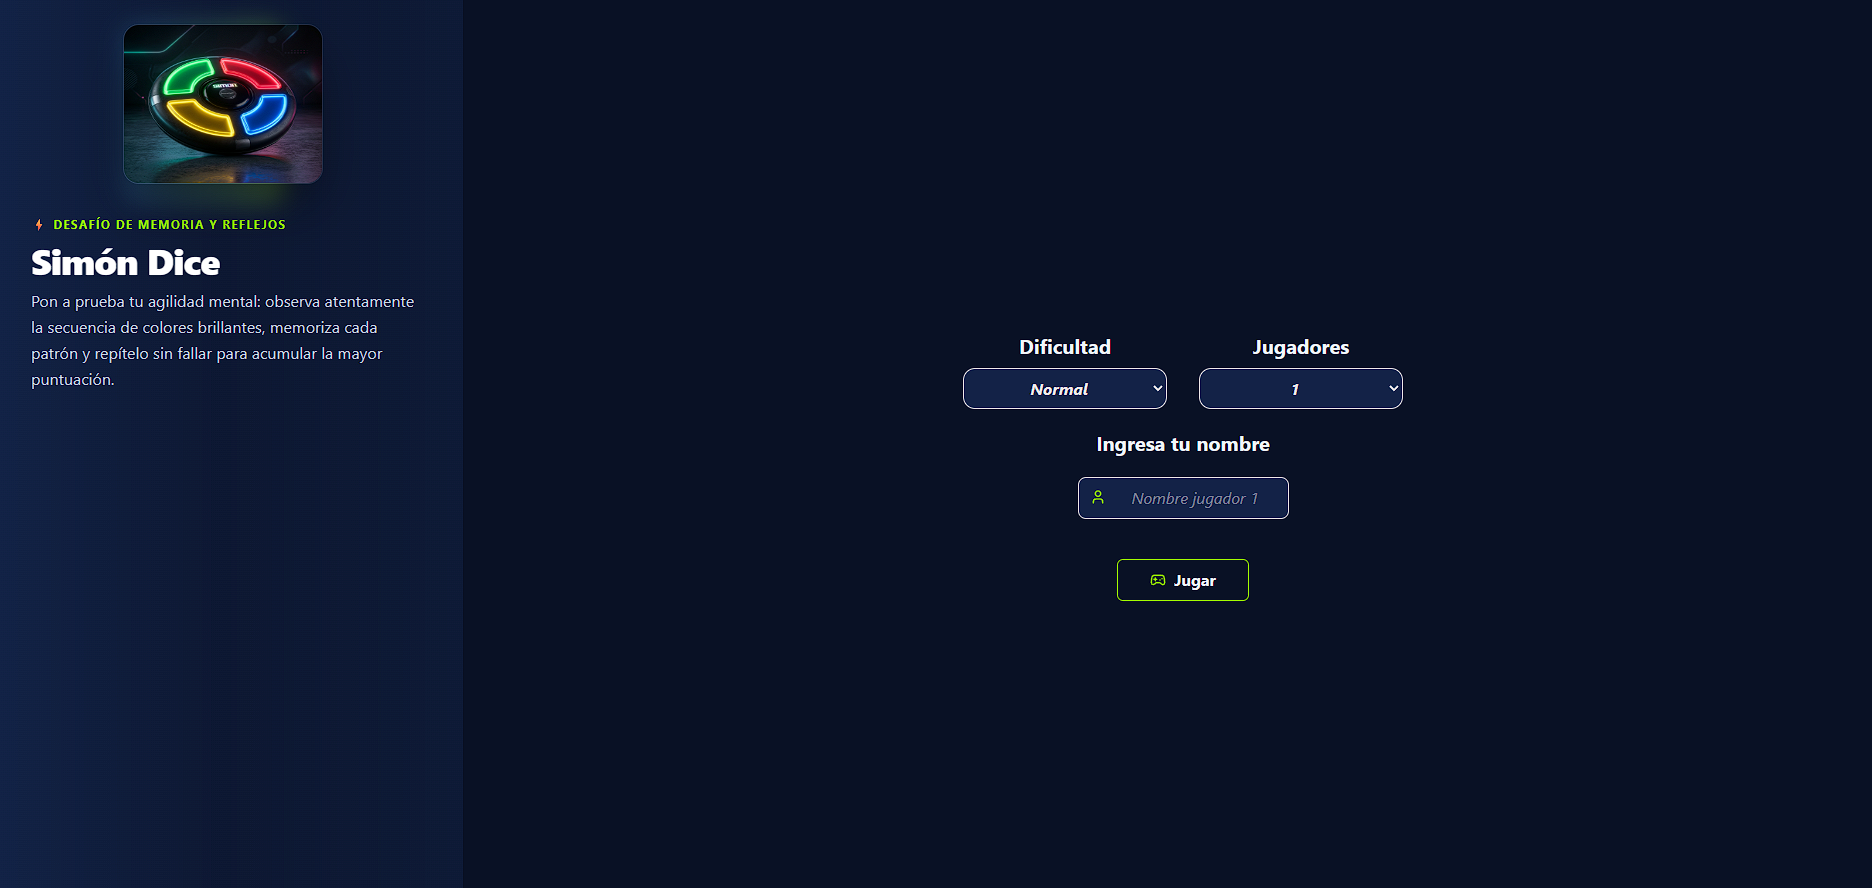
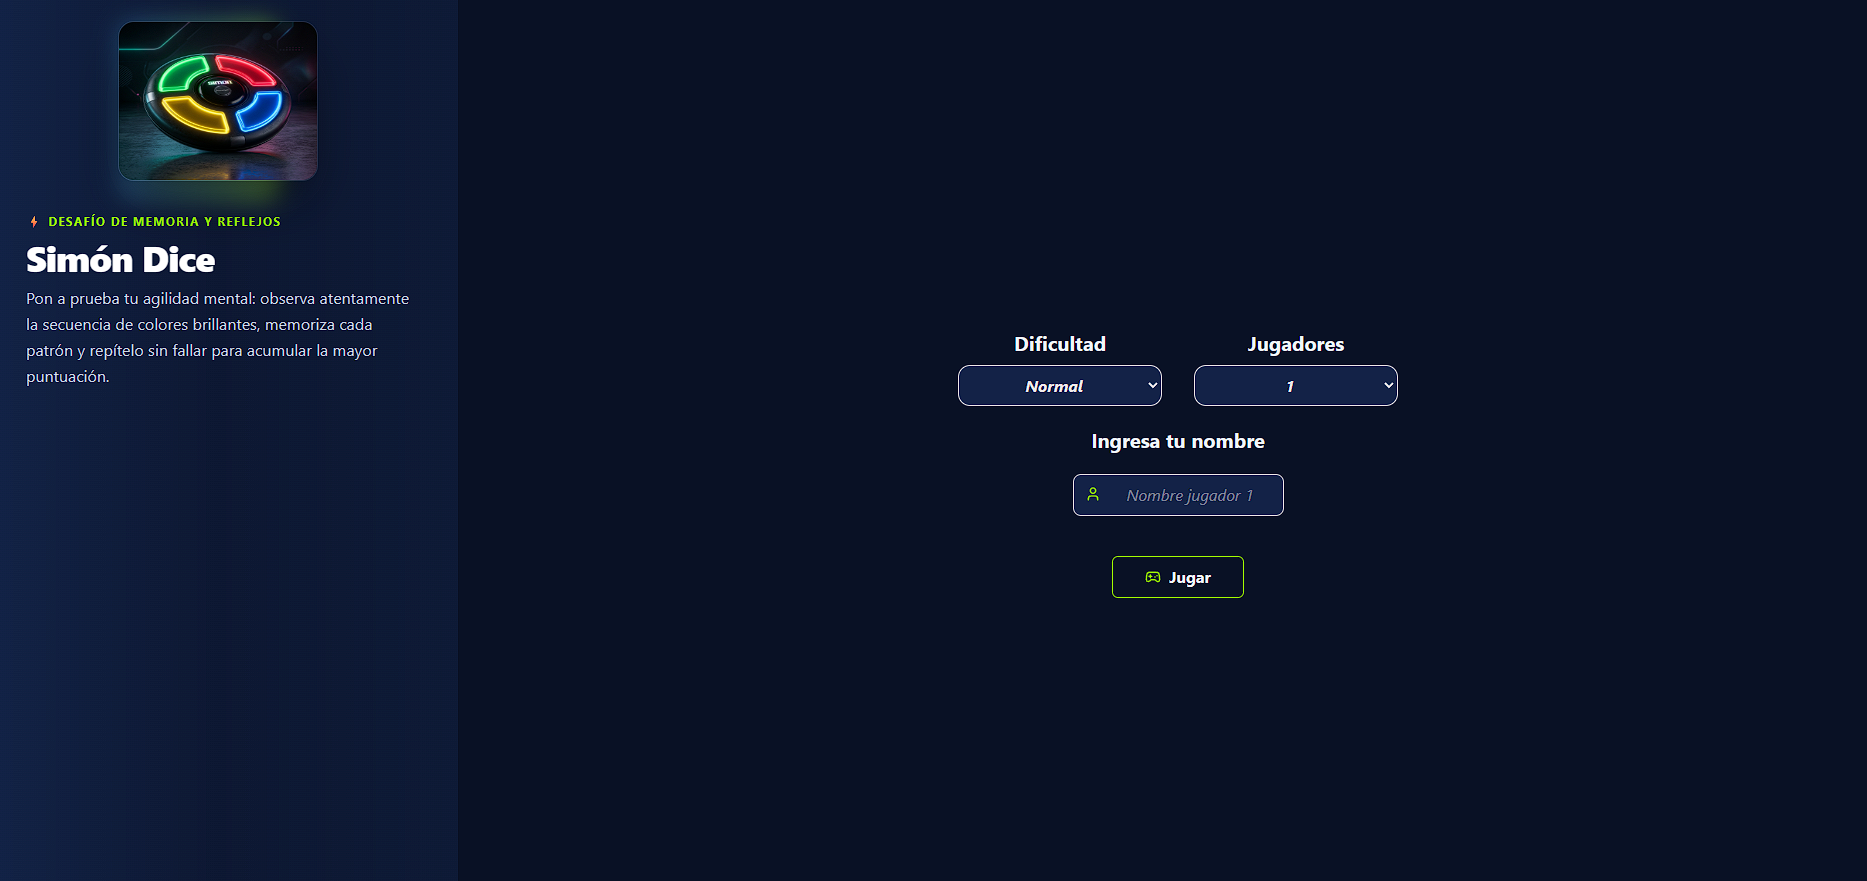
se agrega siguiente turno, puntajes, numero de jugadores y mensajes al terminar

diff --git a/src/App.tsx b/src/App.tsx
@@ -3,13 +3,10 @@ import { useGameContext } from '@/store/GameContext'
 
 import simondiceimage from './assets/simondiceimage.jpg';
 import { Trophy, User } from 'lucide-react';
-import { useMemo } from 'react';
 
 export function App() {
 
-  const { currentPlayer, isGameInit, round, playersNumber } = useGameContext();
-
-  // const playersInfo = useMemo(() => playersInfo.filter(p => p.player != 'simon').length, playersInfo);
+  const { currentPlayer, isGameInit, round, playersNumber, nextPlayer, playersInfo } = useGameContext();
 
   return (
     <>
@@ -26,7 +23,7 @@ export function App() {
               <img
                 src={simondiceimage}
                 alt="Simón Dice Juego de Memoria"
-                className="relative w-30 h-30 sm:w-45 sm:h-45 md:w-90 md:h-40 lg:w-50 rounded-2xl border border-white/10 shadow-2xl shadow-black/60"
+                className="relative w-18 h-18 sm:w-30 sm:h-30 md:w-90 md:h-40 lg:w-50 rounded-2xl border border-white/10 shadow-2xl shadow-black/60"
               />
             </figure>
             <article className="flex flex-col mt-4 gap-2 text-center md:text-left ">
@@ -41,19 +38,61 @@ export function App() {
               </p>
             </article>
           </section>
-          {/* INFO GAME */}
+
+
           {
+            //  INFO GAME 
             isGameInit && (
               <section className='w-full'>
 
-                <div className='flex w-full justify-between'>
-                  <p className='text-xl font-bold italic underline underline-offset-5 mb-2 lg:mb-4'>Ronda: <span className='text-tertiary'>{round}</span></p>
-                  <p className='text-xl font-bold italic underline underline-offset-5 mb-2 lg:mb-4'>Jugadores: <span className='text-tertiary'>{playersNumber == 1 ? 'Solo tú' : playersNumber}</span></p>
+
+                {/* CANTIDAD JUGADORES */}
+                <p className='text-xl font-bold italic underline underline-offset-5 mb-3 lg:mb-4'>Jugadores: <span className='text-tertiary'>{playersNumber == 1 ? 'Solo tú' : playersNumber}</span></p>
+
+
+                {/* PUNTAJE */}
+                <div className='p-1 md:p-3 border-4 border-dotted border-tertiary mb-3'>
+                  <p className='text-lg font-bold italic underline mb-2 md:mb-4 text-center'>Puntaje:</p>
+                  <div className='flex gap-2 flex-wrap justify-around'>
+                    {
+                      playersInfo.filter((player) => player.player !== 'simon').map((player, idx) => (
+                        <p key={idx} className='flex items-center gap-1 text-lg font-bold text-slate-300 hover:text-white transition-colors'>
+                          <Trophy className='w-4 h-4' />
+                          {player.player}: <span className='text-tertiary'>{player.points}</span>
+                        </p>
+                      ))
+                    }
+                  </div>
                 </div>
 
 
-                {/* JUGADOR ACTUAL / TURNO - PUNTOS */}
-                <div className="flex lg:flex-col xl:flex-row gap-8 bg-quinary  justify-center p-2 w-full border-2 border-tertiary/50 border-dashed">
+                {/* JUGADOR SIGUIENTE */}
+                <div className='lg:mt-4'>
+                  <p
+                    className="flex items-center gap-1 font-bold text-lg text-slate-300 hover:text-white transition-colors"
+                  >
+                    <User className='w-4 h-4' />
+                    Siguiente: <span className="ml-1 text-tertiary uppercase">{nextPlayer?.player} </span>
+                  </p>
+                </div>
+
+
+
+
+              </section>
+
+
+            )
+          }
+        </section>
+
+        <section className="h-full lg:col-span-6 xl:col-span-6 mx-autow-full flex flex-col items-center justify-center relative ">
+          {
+            isGameInit && (
+              <>
+
+                {/* JUGADOR ACTUAL / TURNO - PUNTOS  */}
+                <section className="lg:absolute top-0 flex flex-col md:flex-row items-center  justify-center py-2 md:py-4 w-full gap-2 md:gap-8 bg-secondary/50 ">
 
                   <p
                     className="flex items-center gap-1 font-bold text-lg text-slate-300 hover:text-white transition-colors"
@@ -70,20 +109,12 @@ export function App() {
                       Puntos: <span className="ml-1 text-tertiary">{currentPlayer?.points} </span>
                     </p>
                   }
-                </div>
+                </section>
 
-                <div>
-                  {/* JUGADOR SIGUIENTE / NOMBRE - PUNTOS */}
-
-                </div>
-              </section>
-
-
+                <p className='text-xl font-bold italic underline underline-offset-5 m-2 md:m-4 uppercase'>Ronda: &nbsp; <span className='text-tertiary'>{round}</span></p>
+              </>
             )
           }
-        </section>
-
-        <section className="h-full lg:col-span-6 xl:col-span-6 mx-autow-full flex items-center justify-center ">
 
           <Game />
         </section>

diff --git a/src/components/Game.tsx b/src/components/Game.tsx
@@ -5,9 +5,8 @@ import Swal from 'sweetalert2';
 import confetti from 'canvas-confetti';
 
 
-
 const Game = () => {
-    const { playersInfo, isGameInit, sequence, colorsByLevel, level, currentPlayer, setCurrentPlayer, createSequence, handleFinishGame, handleUpdatePointsPlayer } = useGameContext();
+    const { playersInfo, isGameInit, sequence, colorsByLevel, level, currentPlayer, handleChangePlayer, handleFinishGame, handleUpdatePointsPlayer } = useGameContext();
 
 
     const [clicksIndexPlayer, setClicksIndexPlayer] = useState<number>(0);
@@ -24,9 +23,6 @@ const Game = () => {
         });
     };
     // CONFETTI ANIMACIÓN FIN
-
-
-
 
     const handleClickButton = (btn: HTMLButtonElement) => {
         //animación en click
@@ -52,7 +48,8 @@ const Game = () => {
         // aqui se equivoco en algún color
 
         const sortedByPoints = playersInfo.sort((a, b) => b.points - a.points).slice(0, -1); // remueve la maquina
-        const allZero = sortedByPoints.every((p) => p.points === 0);
+        // const allZero = sortedByPoints.every((p) => p.points === 0);
+        const allEquals = sortedByPoints.every(p => p.points === sortedByPoints[0].points);
         const winner = sortedByPoints[0];
         const loser = sortedByPoints[sortedByPoints.length - 1]; // porque el último es la maquina, ya que esa no suma puntos y es cero
         const isTie = winner.points == loser.points;
@@ -72,7 +69,7 @@ const Game = () => {
             text = isTie ? '' : `${loser.player} lo siento, será para la próxima 😅`
         }
         else if (playersInfo.length >= 4) { // TRES O MÁS JUGADORES MÁS MACHINE...
-            title = allZero ? 'Nadie ganó... Todos en 0 😅' : `${winner.player} es el ganador con ${winner.points} puntos! 🎉🏆`
+            title = allEquals ? `Empate con ${winner.points} puntos! 😅` : `${winner.player} es el ganador con ${winner.points} puntos! 🎉🏆`
             text = `Lo siento, el juego terminó por culpa de ${currentPlayer?.player} 😪`
         }
 
@@ -104,32 +101,11 @@ const Game = () => {
             //llegó al final y acertó ... sumar puntos y cmbiar usuario
             handleUpdatePointsPlayer(currentPlayer?.id);
             setClicksIndexPlayer(0);
-            changePlayer();
+            handleChangePlayer();
             triggerConfetti();
         }
 
-
-
-
     }
-
-    // CAMBIAR DE TURNOS
-    const changePlayer = () => {
-        //revisar cantidad de jugadores y aumentar
-        setTimeout(() => {
-            if (!currentPlayer) return;
-
-            if (playersInfo[currentPlayer.id + 1]) {
-                // aún hay otro jugador... cambia
-                setCurrentPlayer(playersInfo.find(p => p.id === (currentPlayer.id + 1))!);
-            } else {
-                // no hay más jugadores.... vuelve a la máquina
-                setCurrentPlayer(playersInfo[0]);
-                createSequence(); // crea nueva secuencia o la acumula
-            }
-        }, 1200)
-    }
-
 
     const executeSequence = async (sequence: Colors[]): Promise<boolean> => {
         // se retorna como promesa para tener más 'control' del timeout y flujo
@@ -158,7 +134,7 @@ const Game = () => {
 
         const initExecuteSequence = async () => {
             await executeSequence(sequence); // espera a que la maquina termine para cambiar de jugador
-            changePlayer();
+            handleChangePlayer();
         }
 
         if (isGameInit) {
@@ -210,18 +186,20 @@ const Game = () => {
 
             {
                 isGameInit && (
+                    <>
 
-                    <section>
-                        {/* <div className="grid grid-cols-2 sm:grid-cols-3 gap-4 md:gap-8 mt-8 w-fit mx-auto"> */}
-                        <div className="flex flex-wrap justify-evenly gap-4 md:gap-8 mt-8 w-fit mx-auto lg:max-w-xl xl:max-w-3xl">
+                        <section>
+                            {/* <div className="grid grid-cols-2 sm:grid-cols-3 gap-4 md:gap-8 mt-8 w-fit mx-auto"> */}
+                            <div className="flex flex-wrap justify-evenly gap-4 md:gap-8 mt-8 w-fit mx-auto lg:max-w-xl xl:max-w-3xl">
 
-                            {
-                                colorsByLevel[level].map((color) => (
-                                    createButtonColor(color)
-                                ))
-                            }
-                        </div>
-                    </section>
+                                {
+                                    colorsByLevel[level].map((color) => (
+                                        createButtonColor(color)
+                                    ))
+                                }
+                            </div>
+                        </section>
+                    </>
                 )
             }
 

diff --git a/src/store/GameContext.tsx b/src/store/GameContext.tsx
@@ -30,6 +30,7 @@ interface GameContextI {
     createSequence: () => void;
     setCurrentPlayer: (player: Player) => void;
     handleFinishGame: () => void;
+    handleChangePlayer: () => void;
 
 
 }
@@ -60,6 +61,7 @@ export const GameProvider: React.FC<GameProviderI> = ({ children }) => {
     const [round, setRound] = useState(0);
     const [nextPlayer, setNextPlayer] = useState<Player | null>(null);
 
+    //Reinicia el juego
     const handleFinishGame = () => {
 
         if (playersNumber == 1) {
@@ -76,6 +78,7 @@ export const GameProvider: React.FC<GameProviderI> = ({ children }) => {
         setIsGameInit(false);
     }
 
+    //incia el juego
     const handleStartGame = () => {
         createSequence();
         setLevel(level);
@@ -88,6 +91,8 @@ export const GameProvider: React.FC<GameProviderI> = ({ children }) => {
         setTimer(0);
         setIsGameInit(true);
     }
+
+    //Actualiza puntos del jugador
     const handleUpdatePointsPlayer = (id: number | undefined) => {
         if (id == undefined) return;
         setPlayersInfo(prev => {
@@ -96,6 +101,8 @@ export const GameProvider: React.FC<GameProviderI> = ({ children }) => {
             return playerUpdate
         })
     }
+
+    //Agrega nombre de jugadores
     const handleAddPlayers = (playerName: string, idx: number) => {
         setPlayersInfo(prev => {
             const updatePlayers = [...prev]
@@ -104,9 +111,35 @@ export const GameProvider: React.FC<GameProviderI> = ({ children }) => {
         })
     }
 
+    // CAMBIAR DE TURNOS
+    const handleChangePlayer = () => {
+        //revisar cantidad de jugadores y aumentar
+        setTimeout(() => {
+            if (!currentPlayer) return;
+
+            if (playersInfo[currentPlayer.id + 1]) {
+                // aún hay otro jugador... cambia
+                setCurrentPlayer(playersInfo.find(p => p.id === (currentPlayer.id + 1))!);
+            } else {
+                // no hay más jugadores.... vuelve a la máquina
+                setCurrentPlayer(playersInfo[0]);
+                createSequence(); // crea nueva secuencia o la acumula
+            }
+        }, 1200)
+    }
+
 
 
     // FN INTERNAS
+
+    const changeNextPlayer = () => {
+        if (playersInfo[currentPlayer.id + 1]) {
+            setNextPlayer(playersInfo.find(p => p.id === (currentPlayer.id + 1))!);
+        } else {
+            setNextPlayer(playersInfo[0]);
+        }
+    }
+
     const createLengthUsers = () => {
         // crea el arrar de jugadores cuando cambia el número de jugadores agregados al iniciar la pantalla
         playersNumber == 0
@@ -136,15 +169,19 @@ export const GameProvider: React.FC<GameProviderI> = ({ children }) => {
     }
 
     useEffect(() => {
-
         createLengthUsers();
     }, [playersNumber])
+
+    useEffect(() => {
+        if (!currentPlayer) return;
+        changeNextPlayer();
+    }, [currentPlayer])
 
 
     return (
         <GameContext.Provider value={{
             nextPlayer, round, sequence, level, playersInfo, timer, playersNumber, currentPlayer, isGameInit,
-            handleFinishGame, handleStartGame, handleUpdatePointsPlayer, handleAddPlayers, setPlayersNumber, setLevel, colorsByLevel, createSequence, setCurrentPlayer
+            handleFinishGame, handleStartGame, handleChangePlayer, handleUpdatePointsPlayer, handleAddPlayers, setPlayersNumber, setLevel, colorsByLevel, createSequence, setCurrentPlayer
         }}>
             {children}
         </GameContext.Provider>
